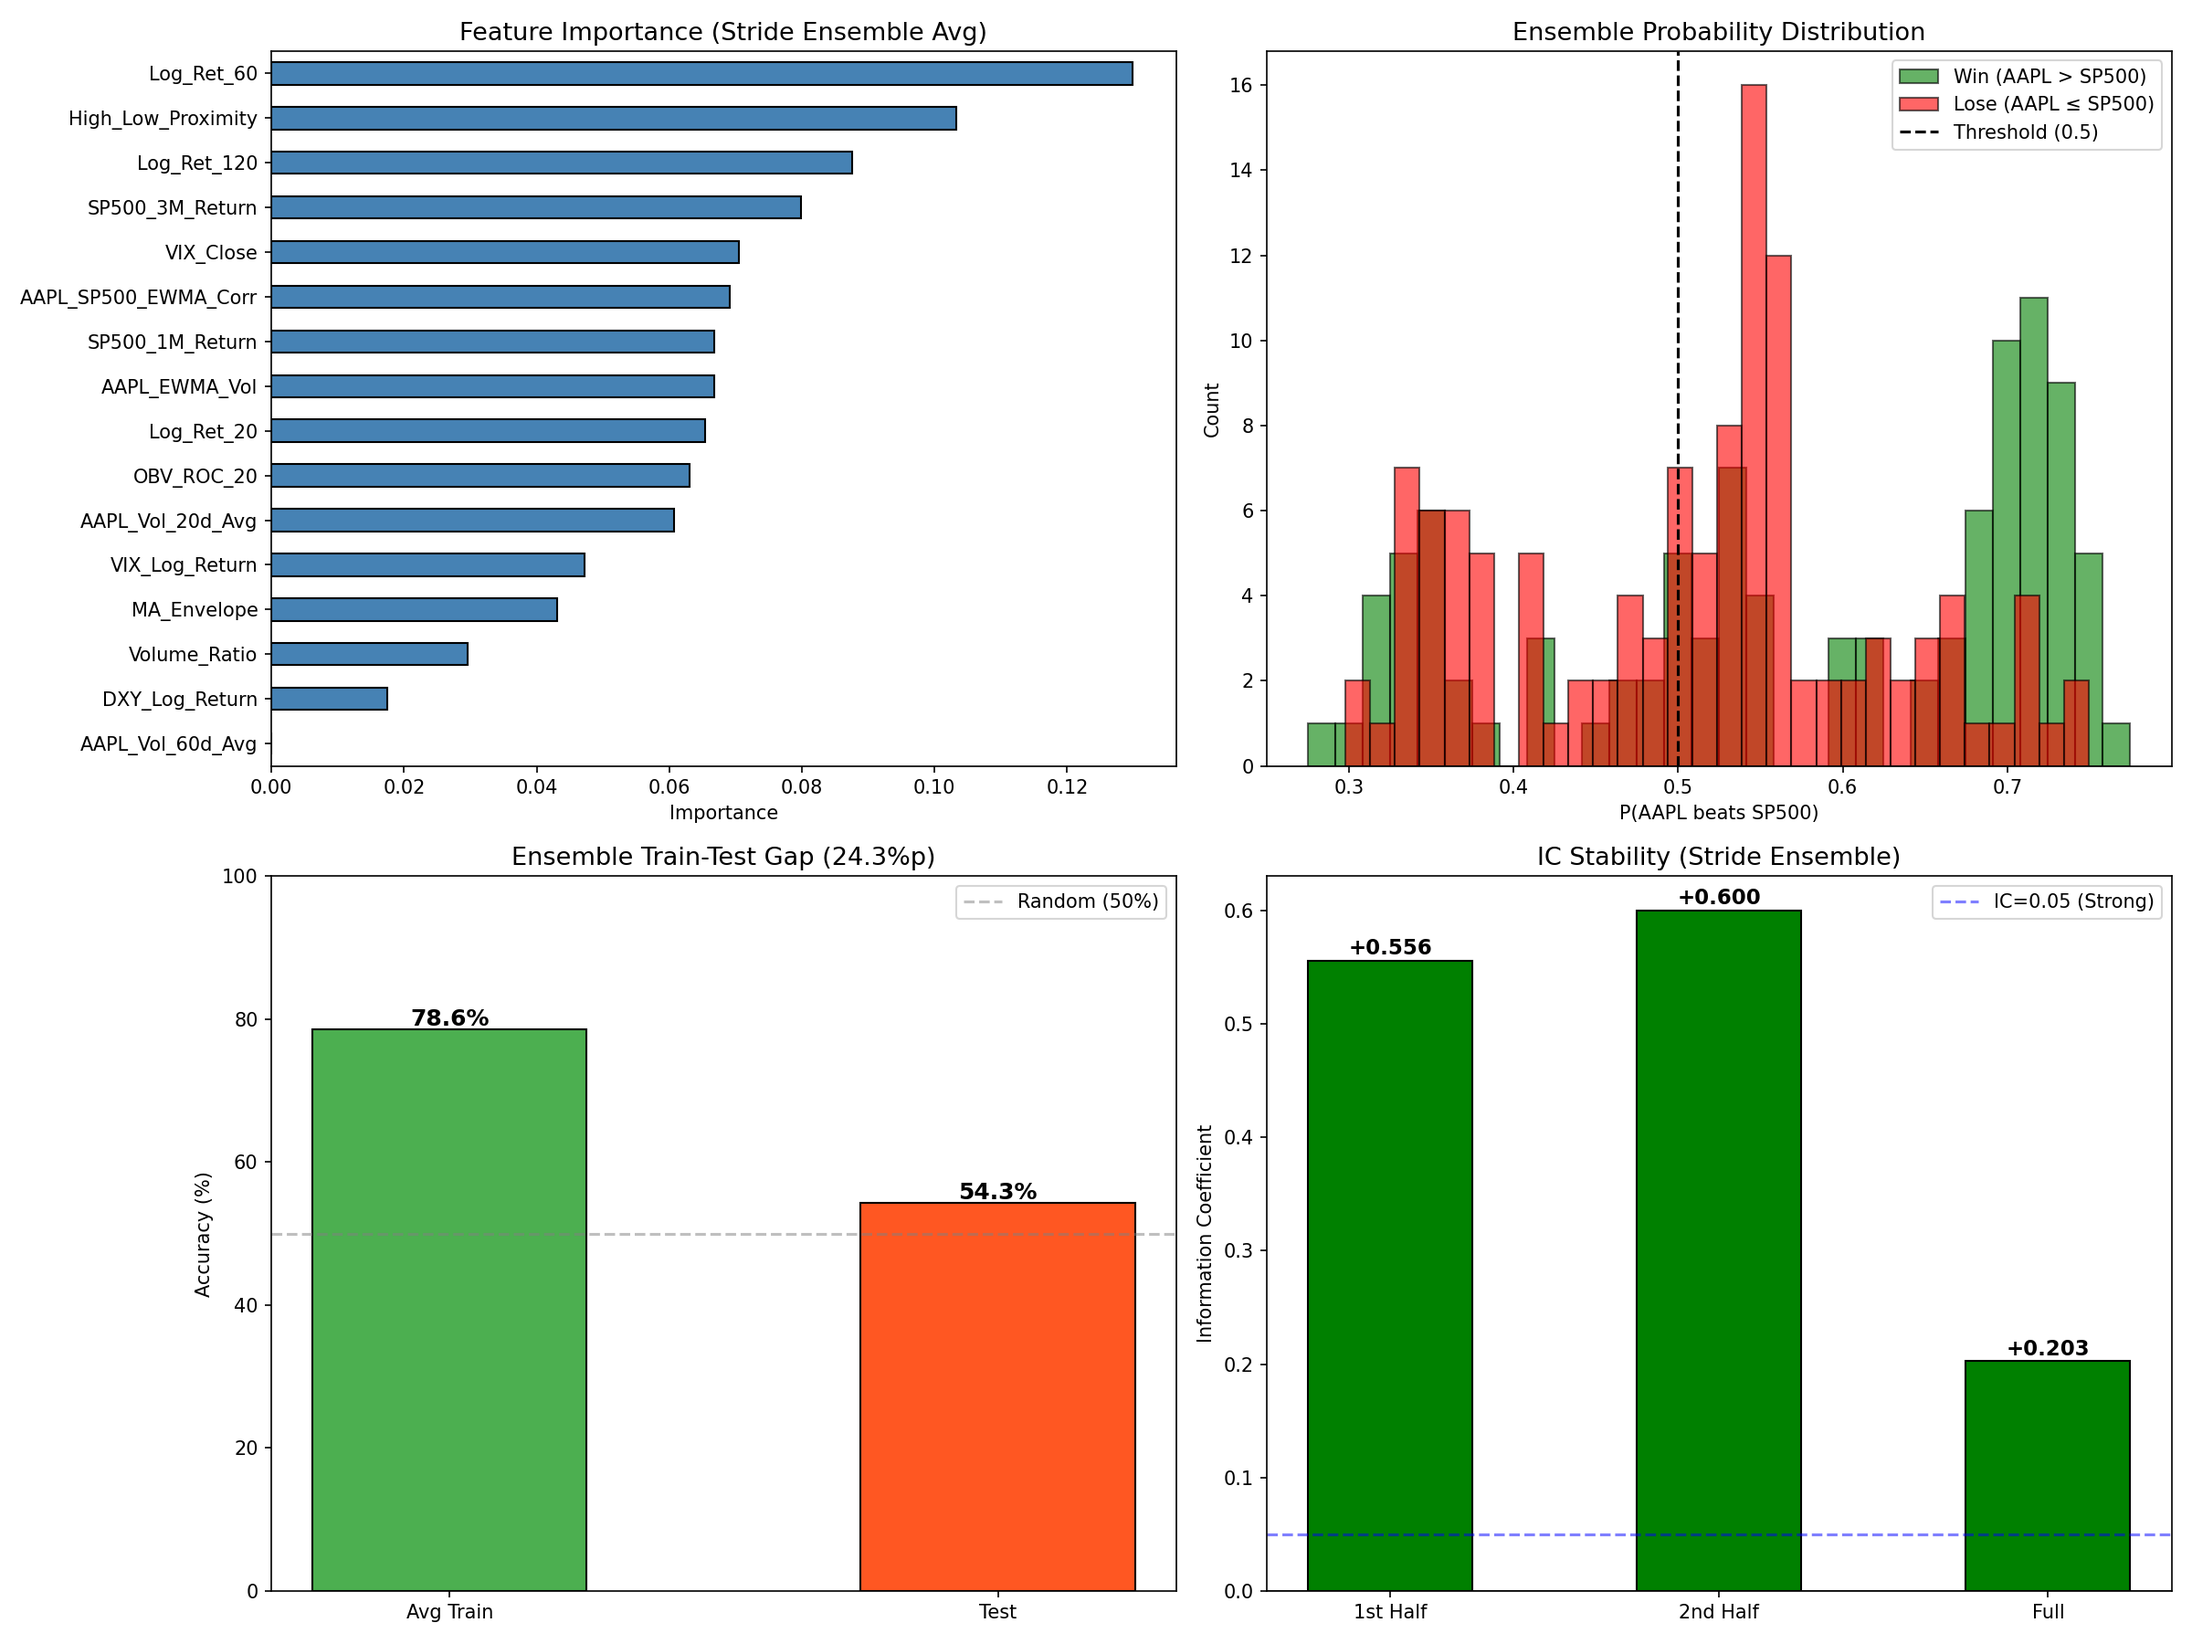
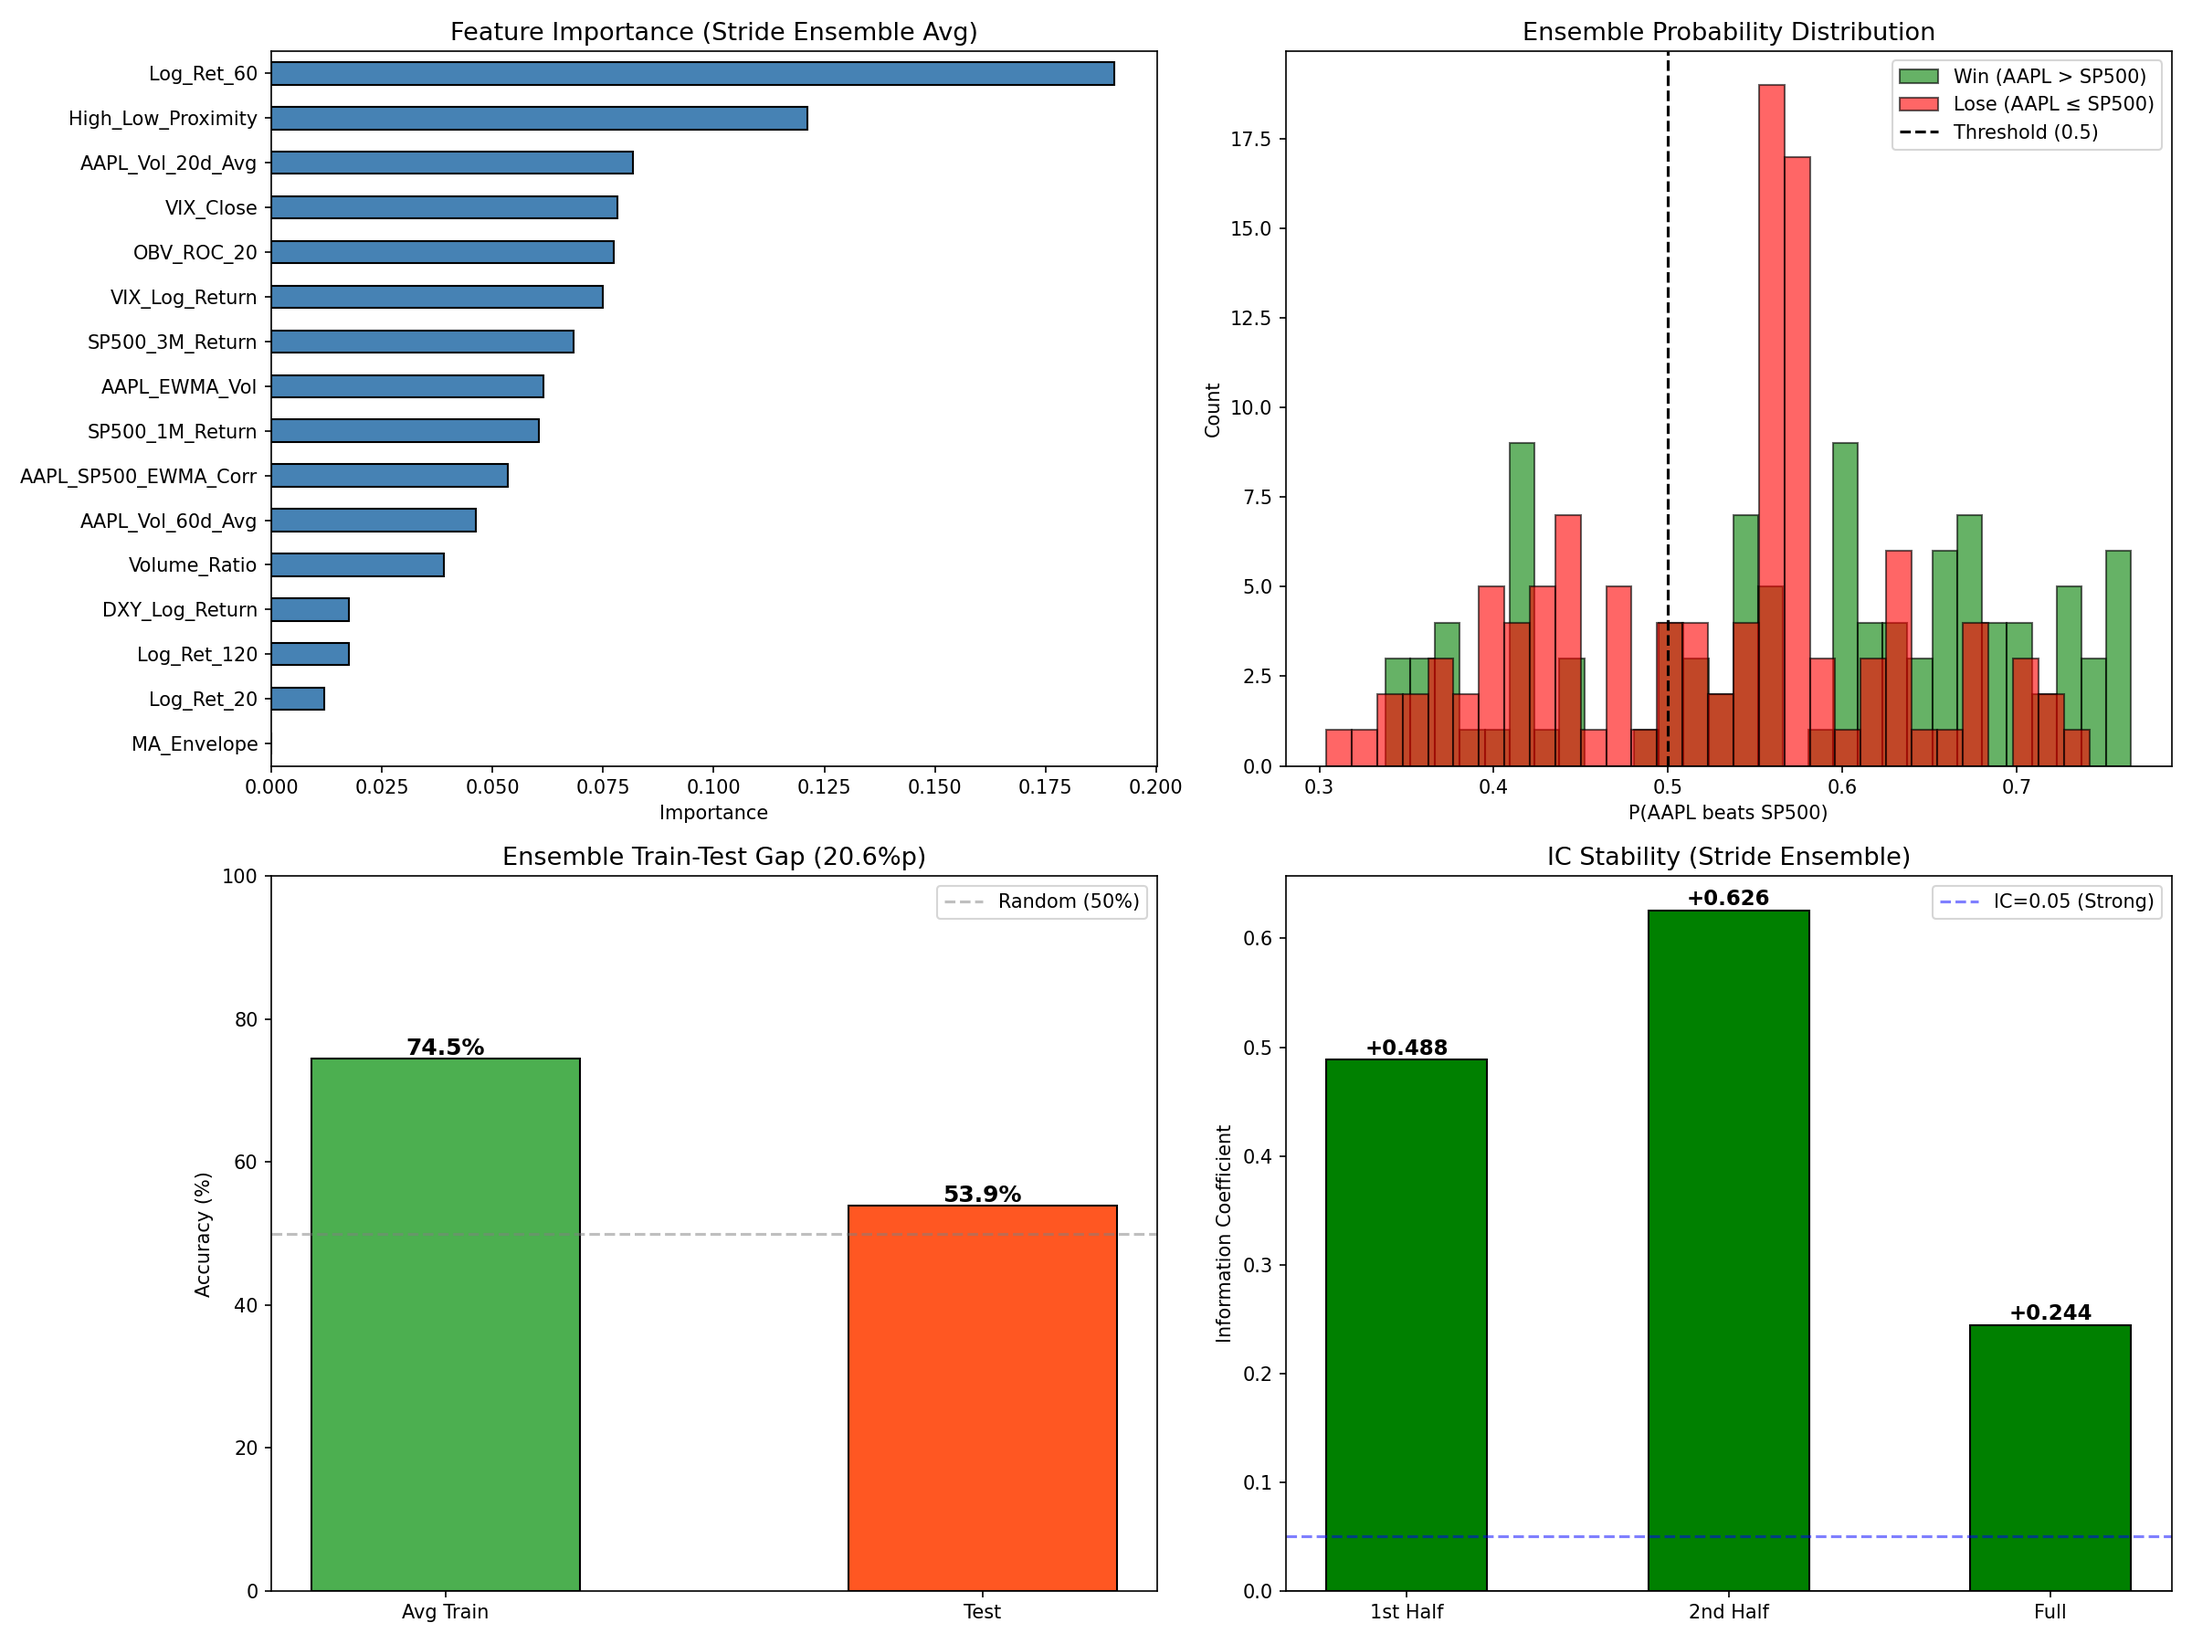
Finalize the XGBoost Model

diff --git a/Classification/optimize_hyperparams.py b/Classification/optimize_hyperparams.py
@@ -53,13 +53,13 @@ def create_objective(stride_split, feature_cols):
     def objective(trial):
         params = {
             "max_depth": trial.suggest_int("max_depth", 1, 1), # 깊이 1 고정 (Stump)
-            "learning_rate": trial.suggest_float("learning_rate", 0.05, 0.15, log=True), # 학습률 상향 (트리 수 감소 보상)
-            "n_estimators": trial.suggest_int("n_estimators", 40, 70),  # 트리 수 엄격 제한
-            "min_child_weight": trial.suggest_int("min_child_weight", 10, 20),
-            "gamma": trial.suggest_float("gamma", 0.0, 0.5),
-            "reg_alpha": trial.suggest_float("reg_alpha", 0.0, 1.0),
-            "reg_lambda": trial.suggest_float("reg_lambda", 1.0, 10.0),   # 규제 완화 (정확도 복구)
-            "subsample": trial.suggest_float("subsample", 0.6, 0.9),      # 샘플링 비율 상향 (정보량 증대)
+            "learning_rate": trial.suggest_float("learning_rate", 0.05, 0.20, log=True),
+            "n_estimators": trial.suggest_int("n_estimators", 30, 60),    # 트리 수 제한
+            "min_child_weight": trial.suggest_int("min_child_weight", 10, 25),
+            "gamma": trial.suggest_float("gamma", 0.2, 1.2),             # 분할 임계값 상향
+            "reg_alpha": trial.suggest_float("reg_alpha", 0.1, 2.0),     # L1 규제
+            "reg_lambda": trial.suggest_float("reg_lambda", 2.0, 15.0),  # L2 규제 강화
+            "subsample": trial.suggest_float("subsample", 0.6, 0.9),
             "colsample_bytree": trial.suggest_float("colsample_bytree", 0.6, 0.9),
             "scale_pos_weight": spw,
             "random_state": 42,
@@ -78,7 +78,14 @@ def create_objective(stride_split, feature_cols):
         y_val_proba = model.predict_proba(X_val)[:, 1]
         val_logloss = log_loss(y_val, y_val_proba)
 
-        return val_logloss
+        # ★ Gap Penalty: Train-Val Gap 20%p 초과 시 페널티 (Target < 25% 안전 확보)
+        from sklearn.metrics import accuracy_score
+        train_acc = accuracy_score(y_train, model.predict(X_train))
+        val_acc = accuracy_score(y_val, model.predict(X_val))
+        gap = train_acc - val_acc
+        gap_penalty = max(0, gap - 0.20) * 2.0
+
+        return val_logloss + gap_penalty
 
     return objective
 
